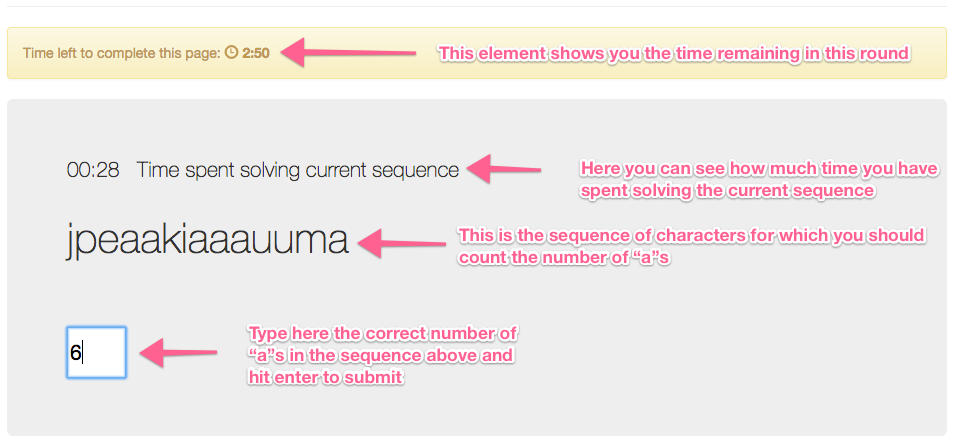
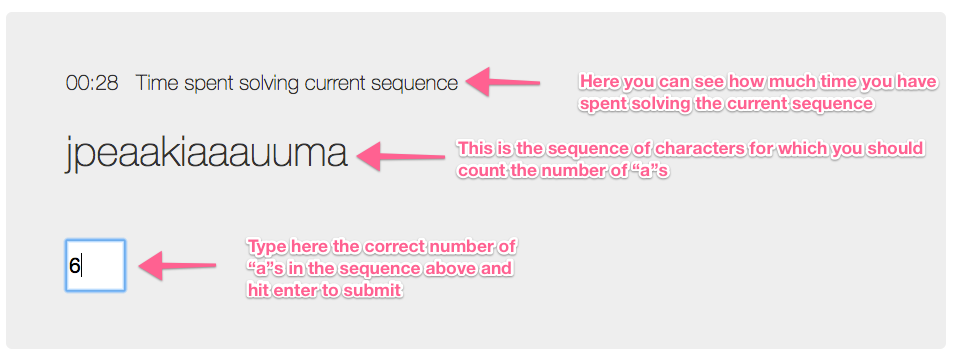
Updated Templates
Updated and corrected templates.
Some minor changes in variables

diff --git a/templates/tullock_income_intro/Feedback.html b/templates/tullock_income_intro/Feedback.html
@@ -7,41 +7,28 @@
 
 {% block content %}
 
+
 <div class="panel panel-primary">
   <div class="panel-heading">Your earnings from this round:</div>
   <div class="panel-body">
-    You solved {{ player.output|floatformat:0 }} sequences which earns you <strong>{{ player.income_strings|c|floatformat:0 }}</strong> Tokens.<br>
-    You spent {{player.time_in_switch}} seconds in the <em>switch mode</em> which earns you <strong>{{player.output_in_switch|c|floatformat:1}}</strong> Tokens.<br><br>
+    You solved {{ player.production_strings|floatformat:0 }} sequences which earns you <strong>{{ player.income_strings|c|floatformat:0 }}</strong> Tokens.<br>
+    You spent {{player.time_in_switch}} seconds in the <em>switch mode</em> which earns you <strong>{{player.income_in_switch|c|floatformat:1}}</strong> Tokens.<br><br>
     Your total earnings in this round are therefore <strong>{{player.income|c|floatformat:1}}</strong> Tokens. <br>
   </div>
 </div>
 
-    <table class="table">
-        <tr>
-            <th>Your Income for This Round</th>
-            <th>Your Investment</th>
-            <th>You Keep</th>
-            <th>You Earn</th>
-            <th>Your Prob of Winning</th>
-            <th> Your new Endow</th>
-        </tr>
+        {% if subsession.round_number == 2 %}
+    <div class="panel panel-info">
+  <div class="panel-heading">Your earnings in the previous round:</div>
+  <div class="panel-body">
+    You solved {{ production_strings_last|floatformat:0 }} sequences which earns you <strong>{{ income_strings_last|c|floatformat:0 }}</strong> Tokens.<br>
+    You spent {{time_in_switch_last}} seconds in the <em>switch mode</em>
+      which earns you <strong>{{income_in_switch_last|c|floatformat:1}}</strong> Tokens.<br><br>
+    Your total earnings in this round are therefore <strong>{{income_last|c|floatformat:1}}</strong> Tokens. <br>
+  </div>
+</div>
 
-        <tr>
-            <td>{{ player.income }}</td>
-            <td>{{ player.investment_amount }}</td>
-            <td>{{ player.rest_endowment}}</td>
-            <td>
-                {% if player.is_winner %}
-                    {{ Constants.max_endowment }}
-                {% else %}
-                    {{ Constants.min_endowment }}
-                {% endif %}
-            </td>
-            <td>{{ player.prob | floatformat:"-2" }}</td>
-            <td>{{ player.endowment_new }}</td>
-        </tr>
-
-    </table>
+    {% endif %}
 
 {% next_button %}
 

diff --git a/templates/tullock_income_intro/SwitchInstructions.html b/templates/tullock_income_intro/SwitchInstructions.html
@@ -10,10 +10,12 @@
 
 <div class="instructions well well-lg">
     <p>
-        In the following series of sequences that lasts {{ Constants.time_in_minutes|apnumber }} minutes you can earn money. <strong>For each sequence in which you count the correct number of "a"s </strong>
-        you will receive
-        <strong>{{ Constants.tokensper_string }} Token</strong> (Tk). At the end of the experiment, one Token will be converted into <strong>{{ Constants.eurosper_token }} Euro</strong>.
-        Every participant has to count the same letter ( <strong>a</strong> ) in the same sequences of letters that are displayed in the same order such that everybody faces the same difficulty.
+        In the following series of sequences that each lasts {{ Constants.time_in_minutes|apnumber }} minutes you can earn money.
+        <strong>For each sequence in which you count the correct number of "a"s </strong>
+        you will receive <strong>{{ Constants.tokensper_string }} Token</strong> (Tk). That is your wage.
+        At the end of the experiment, one Token will be converted into <strong>{{ Constants.eurosper_token }} Euro</strong>.
+        Every participant has to count the same letter ( <strong>a</strong> ) in the same sequences of letters that are displayed in the same order such that
+        <strong>everybody faces the same difficulty</strong>.
     </p>
     <p>
         You will start solving short sequences. After each sequence you solve, the <strong>length will increase

diff --git a/templates/tullock_income_intro/HighWageInstructions.html b/templates/tullock_income_intro/HighWageInstructions.html
@@ -19,7 +19,8 @@
     </p>
     <p> <U>Remember:</U> At any time, you have the option to change to the <strong><em>switch mode</em></strong>. In this mode, you will earn <strong>1 Token
         per {{ Constants.secondsper_token|apnumber }} seconds</strong> without solving any tasks. For instance, spending 13 seconds in the
-        <strong><em>switch mode</em></strong> earns you 1.3 Tk. Think about when it is best for you change to the <strong><em>switch mode.</em></strong><br>
+        <strong><em>switch mode</em></strong> earns you 1.3 Tk. Given the higher wage in this round, it is advisable to go later
+        into "switch" mode.
         <div class="alert alert-warning" role="alert">
         <U>Important:</U> Once you are in the <strong><em>switch mode</em></strong> you cannot go back to the letter counting task!
         </div></p>

diff --git a/templates/tullock_income_intro/TaskInstructions.html b/templates/tullock_income_intro/TaskInstructions.html
@@ -14,7 +14,8 @@
         appears in a sequence of characters.
     </p>
     <p>
-        In the next screen you will have the opportunity to try the task five times. You will face sequences of various lengths to get a good impression of the task. To submit an answer, press Enter.
+        In the next screen you will have the opportunity to try the task five times. You will face sequences of various lengths to get a good impression of the task.
+        To submit an answer, hit the <span class="label label-info"> ⏎ Enter</span> key.
         If your answer is correct, the next sequence is displayed. Otherwise, the same sequence is displayed again and you can submit another answer.
         The timer next to the input field will tell you how long you take for each sequence.
     </p>

diff --git a/templates/tullock_income_intro/Round0.html b/templates/tullock_income_intro/Round0.html
@@ -2,7 +2,7 @@
 {% load staticfiles otree_tags %}
 
 {% block styles %}
-    <link href="{% static "project2cont/css/Round.css" %}" rel="stylesheet">
+    <link href="{% static "tullock_income_intro/css/Round.css" %}" rel="stylesheet">
 {% endblock %}
 
 {% block title %}
@@ -16,6 +16,9 @@
 
 <div class="jumbotron">
 
+<span id="min">00</span>:<span id="sec">00</span>
+&nbsp; Time spent solving current sequence
+
 <div id="string">
 </div>
 
@@ -23,8 +26,7 @@
 
 <input type="text" id="player_guess" size="4" autofocus>
 </input> &nbsp;
-<span id="min">00</span>:<span id="sec">00</span>
-&nbsp; Time spent solving current sequence
+
 
 <br>
 

diff --git a/templates/tullock_income_intro/RET.html b/templates/tullock_income_intro/RET.html
@@ -14,6 +14,9 @@
 
 <div class="jumbotron">
 
+<span id="min">00</span>:<span id="sec">00</span>
+&nbsp; Time spent solving current sequence
+
 <div id="string">
 </div>
 
@@ -21,8 +24,6 @@
 
 <input type="text" id="player_guess" size="4" autofocus>
 </input> &nbsp;
-<span id="min">00</span>:<span id="sec">00</span>
-&nbsp; Time spent solving current sequence
 
 <br>
 

diff --git a/models.py b/models.py
@@ -43,24 +43,25 @@ class Subsession(BaseSubsession):
 
 
 class Group(BaseGroup):
-    total_output = models.IntegerField(initial=0)  # define group variable to calculate probabilities
+
+    total_production = models.IntegerField(initial=0)  # define group variable
 
     # determine total output
 
-    def set_total_output(self):
-        total_output = sum(p.output for p in self.get_players())  # retrieves a list of all individual outputs
+    def set_total_production(self):
+        total_production = sum(p.production_strings for p in self.get_players())  # retrieves a list of all individual productions
         # and sums them up
-        self.total_output = total_output
+        self.total_production = total_production
 
     # determine income:
     def set_incomes(self):
         for p in self.get_players():
             if self.round_number == 2:  # second round is paid to the high wage
-                p.income_strings = p.output * Constants.tokensper_string_high
-                p.income = p.income_strings + p.output_in_switch
+                p.income_strings = p.production_strings * Constants.tokensper_string_high
+                p.income = p.income_strings + p.income_in_switch
             else:
-                p.income_strings = p.output * Constants.tokensper_string
-                p.income = p.income_strings + p.output_in_switch
+                p.income_strings = p.production_strings * Constants.tokensper_string
+                p.income = p.income_strings + p.income_in_switch
 
 
 class Player(BasePlayer):
@@ -70,12 +71,11 @@ class Player(BasePlayer):
 
     # Number of Tasks Solved
     output0 = models.FloatField(default=0)
-    output = models.FloatField(default=0)
+    production_strings = models.FloatField(default=0)
 
     # available income after solving RET
     income = models.FloatField(default=0)
     income_strings = models.FloatField(default=0)
-
 
     # Variable is 1 when entering switch
     switch1 = models.PositiveIntegerField(default=0)
@@ -86,9 +86,9 @@ class Player(BasePlayer):
 
     additional_time = models.PositiveIntegerField(default=0)
 
-    output_in_switch = models.FloatField(default=0)
+    income_in_switch = models.FloatField(default=0)
 
-    total_output = models.FloatField(default=0)
+    total_production = models.FloatField(default=0)
 
     # Time Needed to Solve Task i in Round j with tjxi
 
@@ -200,7 +200,7 @@ class Player(BasePlayer):
         self.time_in_switch = self.switch1 * (Constants.t - self.switch_time)
 
         # This variable determines the tokens per string received
-        self.output_in_switch = self.time_in_switch / Constants.secondsper_token
+        self.income_in_switch = self.time_in_switch / Constants.secondsper_token
 
-        # This is the sum of strings + output in switch
-        self.total_output = self.output + self.output_in_switch
+        # This is the sum of strings + production in switch
+        self.total_production = self.production_strings + self.income_in_switch

diff --git a/views.py b/views.py
@@ -129,7 +129,7 @@ class RET(Page):
                    't143',
                    't144',
                    't145',
-                   'output',
+                   'production_strings',
                    'switch1',
                    'additional_time'
                    ]
@@ -144,7 +144,13 @@ class Waiting(WaitPage):
 
 
 class Feedback(Page):
-    pass
+    def vars_for_template(self):
+        if self.round_number > 1:
+            return {'production_strings_last': self.player.in_round(self.round_number - 1).production_strings,
+                    'income_strings_last': self.player.in_round(self.round_number - 1).income_strings,
+                    'time_in_switch_last': self.player.in_round(self.round_number - 1).time_in_switch,
+                    'income_in_switch_last': self.player.in_round(self.round_number - 1).income_in_switch,
+                    'income_last': self.player.in_round(self.round_number - 1).income}
 
 
 class HighWageInstructions(Page):
@@ -153,14 +159,14 @@ class HighWageInstructions(Page):
 
 
 page_sequence = [
-    #Welcome,
-    #Introduction,
+    Welcome,
+    Introduction,
     TaskInstructions,
-    #Round0,
-    #WaitingString,
+    Round0,
+    WaitingString,
     SwitchInstructions,
-    #RET,
-    #Waiting,  # calculates incomes
-    #Feedback,
+    RET,
+    Waiting,  # calculates incomes
+    Feedback,
     HighWageInstructions,
 ]
